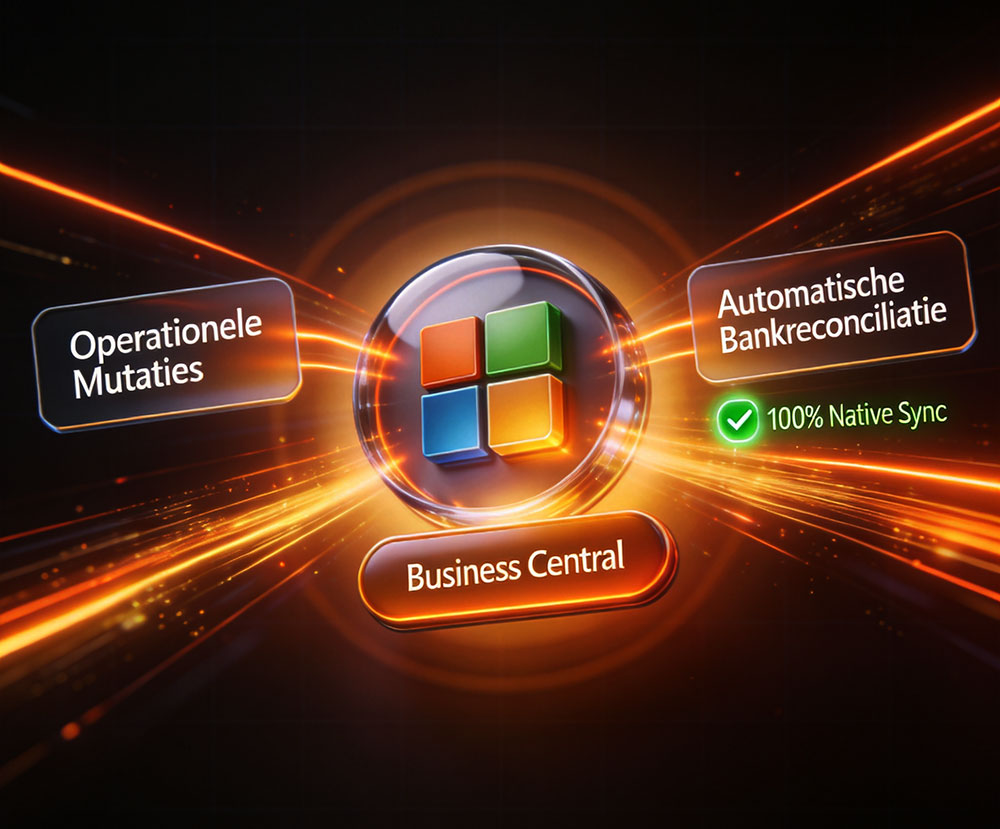
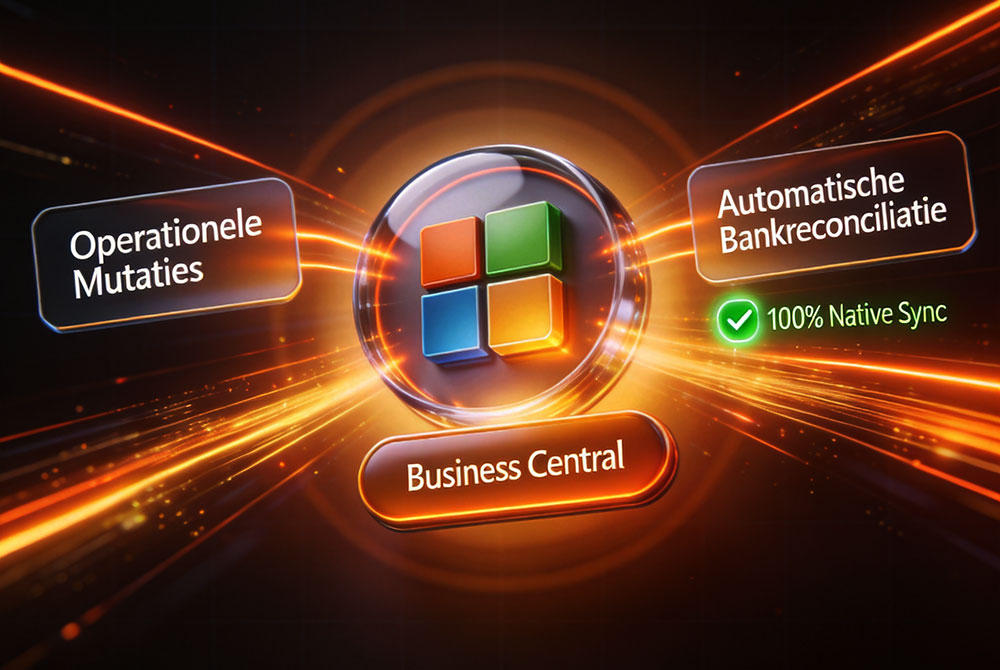
new Frontpage

diff --git a/src/components/Header.tsx b/src/components/Header.tsx
@@ -396,13 +396,13 @@ export default function Header({ locale = 'nl', settings }: HeaderProps) {
                         <Link
                             href={getPath('/')}
                             className='flex items-center'
-                            aria-label='emlinked - Vastgoedsoftware voor Business Central'
-                            title='emlinked - Vastgoedsoftware voor Business Central'
+                            aria-label='emlinked - Vastgoedbeheer Software'
+                            title='emlinked - Vastgoedbeheer Software'
                         >
                             <img
                                 src={logoSrc}
-                                alt='emlinked logo'
-                                className='w-auto h-9 transition-all'
+                                alt='emlinked - Vastgoedbeheer Software'
+                                className='w-auto h-8 transition-all'
                             />
                         </Link>
                     </div>
@@ -533,25 +533,25 @@ export default function Header({ locale = 'nl', settings }: HeaderProps) {
                 </div>
 
                 {/* Desktop Bar (>= xl) */}
-                <div className='hidden xl:flex h-20 items-center justify-between gap-4'>
+                <div className='hidden xl:flex h-16 items-center justify-between gap-4'>
                     {/* Logo & Brand Title */}
                     <div className='flex items-center shrink-0'>
                         <Link
                             href={getPath('/')}
                             className='flex items-center'
-                            aria-label='emlinked - Vastgoedsoftware voor Business Central'
-                            title='emlinked - Vastgoedsoftware voor Business Central'
+                            aria-label='emlinked - Vastgoedbeheer Software'
+                            title='emlinked - Vastgoedbeheer Software'
                         >
                             <img
                                 src={logoSrc}
-                                alt='emlinked logo'
-                                className='w-auto h-11 transition-all'
+                                alt='emlinked - Vastgoedbeheer Software'
+                                className='w-auto h-9 transition-all'
                             />
                         </Link>
                     </div>
 
                     {/* Desktop Navigation Links */}
-                    <nav className='hidden xl:flex items-center justify-center gap-1.5 2xl:gap-3 grow mt-1'>
+                    <nav className='hidden xl:flex items-center justify-center gap-1.5 2xl:gap-2 grow mt-1'>
                         {menuItems.map((item: any, idx: number) => {
                             const isDropdown = item._type === 'menuDropdown';
                             const isDropdownActive =
@@ -734,7 +734,7 @@ export default function Header({ locale = 'nl', settings }: HeaderProps) {
                                 onClick={() =>
                                     setLangDropdownOpen(!langDropdownOpen)
                                 }
-                                className='p-1 rounded-md hover:bg-muted text-muted-foreground hover:text-foreground transition-all cursor-pointer mt-2'
+                                className='p-1.5 rounded-md hover:bg-muted text-muted-foreground hover:text-foreground transition-all cursor-pointer flex items-center justify-center'
                                 aria-label='Select Language'
                             >
                                 <svg

diff --git a/src/app/(web)/[locale]/page.tsx b/src/app/(web)/[locale]/page.tsx
@@ -406,11 +406,11 @@ export default async function HomePage({ params }: HomePageProps) {
                                             <div className='lg:col-span-5 flex justify-center items-center'>
                                                 <div className='relative w-full max-w-md max-h-[650px] rounded-2xl overflow-hidden group flex items-center justify-center'>
                                                     <Image
-                                                        src='/emlinked/home/FiscaleOptimalisatie_Box3.jpg'
+                                                        src='/emlinked/home/zekerheid-over-je-vastgoedportefeuille.jpg'
                                                         alt={sectionTitle}
-                                                        width={700}
-                                                        height={500}
-                                                        className='w-full max-h-[650px] object-cover object-top rounded-2xl group-hover:scale-105 transition-transform duration-500'
+                                                        width={800}
+                                                        height={1000}
+                                                        className='w-full max-h-[700px] object-cover object-bottom rounded-2xl group-hover:scale-105 transition-transform duration-500'
                                                         priority
                                                     />
                                                 </div>
